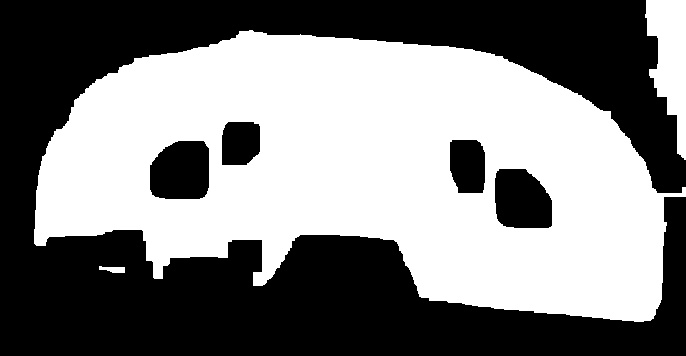
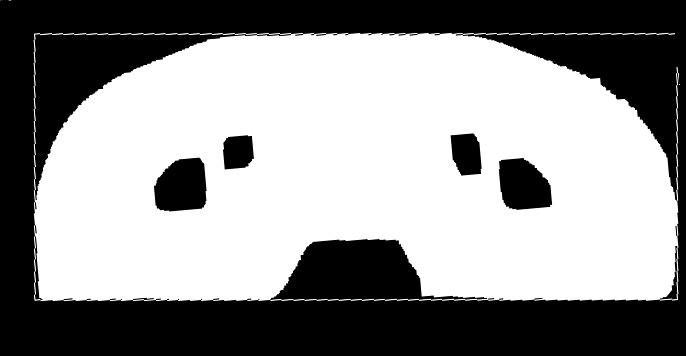
3d printer algorithm2

diff --git a/ImageProcessing.py b/ImageProcessing.py
@@ -39,7 +39,7 @@ def getTopContours(contours, sensitivity):
 	return sorted(contours, key=cv2.contourArea)[:sensitivity]
 
 def drawContours(img, contours):
-	cv2.drawContours(img, contours, -1, (255, 0, 0), 5)
+	cv2.drawContours(img, contours, -1, (255, 0, 0), 1)
 	return
 
 def rotateImage(img, angle):
@@ -55,7 +55,7 @@ def rotateImage(img, angle):
 # takes in coloured image
 # returns 3 return values from cv2.minAreaRect, and a [box] for drawing purposes
 def getMinAreaRect(img):
-	img = cv2.cvtColor(img, cv2.COLOR_BGR2GRAY)
+	# img = cv2.cvtColor(img, cv2.COLOR_BGR2GRAY)
 	img2, contours, hierarchy = getContours(img)
 	contours = np.concatenate(contours)
 	center, rect, angle = cv2.minAreaRect(contours)

diff --git a/script.py b/script.py
@@ -8,14 +8,18 @@ real = oriReal
 oriTemplate = cv2.imread('template.jpeg', 0)
 template = oriTemplate
 
+# preprocess
 real = ip.dilate(real, 13)
-real = ip.erode(real, 25)
-_, real = ip.binarize(real)
+real = ip.erode(real, 20)
+_, real = ip.binarize2(real)
 
-template = ip.erode(template, 10)
-template = ip.dilate(template, 10)
-_, template = ip.binarize(template)
-template = 255-template
+# rotate
+center, rect, angle, box = ip.getMinAreaRect(real)
+ip.drawContours(real, box)
+real = ip.rotateImage(real, angle)
 
 cv2.imwrite('./result/realProcessed.jpg', real)
 cv2.imwrite('./result/templateProcessed.jpg', template)
+
+
+
